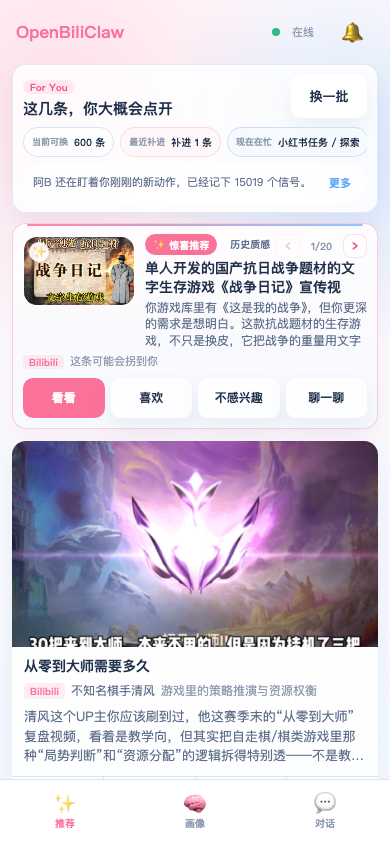
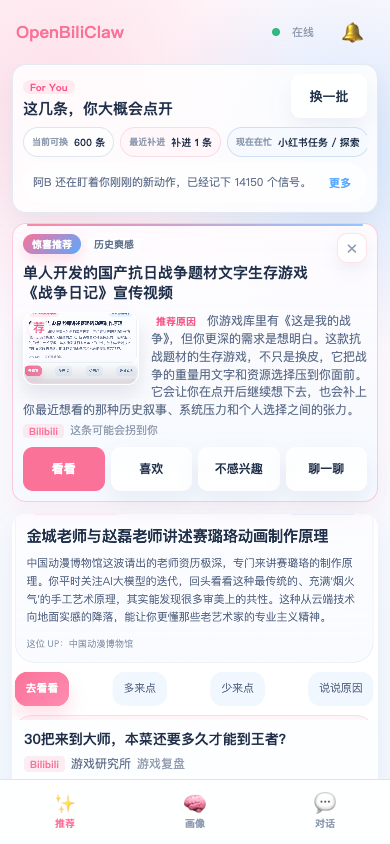
fix: refine mobile delight recommendation card

diff --git a/src/openbiliclaw/web/css/app.css b/src/openbiliclaw/web/css/app.css
@@ -417,18 +417,20 @@ body {
 }
 
 .delight-thumb {
-  width: 112px;
+  width: 116px;
   float: left;
-  margin: 2px 10px 6px 0;
+  margin: 2px 12px 7px 0;
   position: relative;
   overflow: hidden;
-  border-radius: 14px;
+  border-radius: 12px;
   aspect-ratio: 16 / 10;
   background:
     linear-gradient(180deg, rgba(255, 255, 255, 0.96), rgba(255, 248, 252, 0.94)),
     linear-gradient(145deg, rgba(251, 114, 153, 0.18), rgba(90, 169, 255, 0.14));
   border: 1px solid rgba(255, 255, 255, 0.92);
-  box-shadow: inset 0 1px 0 rgba(255, 255, 255, 0.74);
+  box-shadow:
+    inset 0 1px 0 rgba(255, 255, 255, 0.74),
+    0 10px 18px rgba(52, 72, 110, 0.12);
   display: flex;
   align-items: center;
   justify-content: center;
@@ -437,7 +439,7 @@ body {
 }
 
 .delight-thumb::before {
-  content: "✨";
+  content: "荐";
   position: absolute;
   top: 5px;
   left: 5px;
@@ -479,7 +481,7 @@ body {
   align-items: center;
   gap: 6px;
   min-width: 0;
-  padding-right: 78px;
+  padding-right: 118px;
   flex-wrap: wrap;
   margin-bottom: 4px;
 }
@@ -488,12 +490,13 @@ body {
   display: inline-flex;
   align-items: center;
   flex: 0 0 auto;
-  background: var(--brand);
+  background: linear-gradient(135deg, var(--brand), var(--sky));
   color: #fff;
   font-size: 10px;
-  font-weight: 700;
-  padding: 2px 8px;
+  font-weight: 800;
+  padding: 3px 9px;
   border-radius: 999px;
+  box-shadow: 0 6px 14px rgba(251, 114, 153, 0.22);
 }
 
 .delight-inline-counter {
@@ -509,11 +512,36 @@ body {
 .delight-corner-nav {
   position: absolute;
   top: 10px;
-  right: 10px;
+  right: 48px;
   display: inline-flex;
   align-items: center;
   gap: 5px;
   z-index: 2;
+}
+
+.delight-later-btn {
+  position: absolute;
+  top: 9px;
+  right: 10px;
+  z-index: 3;
+  width: 30px;
+  height: 30px;
+  border: 1px solid rgba(251, 114, 153, 0.2);
+  border-radius: 10px;
+  background: rgba(255, 255, 255, 0.82);
+  color: var(--text-muted);
+  font-size: 17px;
+  line-height: 1;
+  cursor: pointer;
+  display: inline-flex;
+  align-items: center;
+  justify-content: center;
+  box-shadow: 0 8px 16px rgba(73, 93, 130, 0.08);
+}
+
+.delight-later-btn:active {
+  background: var(--brand-soft);
+  color: var(--brand-strong);
 }
 
 .delight-inline-nav {
@@ -539,12 +567,19 @@ body {
 }
 
 .delight-title {
-  font-size: 14px;
+  font-size: 15px;
   font-weight: 800;
   line-height: 1.35;
   max-height: 2.7em;
   overflow: hidden;
   margin-bottom: 3px;
+  padding-right: 44px;
+  overflow-wrap: anywhere;
+}
+
+.delight-feature-copy {
+  min-width: 0;
+  padding-top: 5px;
 }
 
 .delight-hook-badge {
@@ -567,10 +602,32 @@ body {
 .delight-reason {
   font-size: 12px;
   color: var(--text-secondary);
-  line-height: 1.4;
-  max-height: 4.2em;
-  overflow: hidden;
+  line-height: 1.48;
   margin-top: 2px;
+  overflow-wrap: anywhere;
+}
+
+.delight-reason-wrap {
+  display: flow-root;
+  margin-top: 7px;
+}
+
+.delight-reason-label {
+  display: inline-flex;
+  align-items: center;
+  margin-right: 6px;
+  padding: 1px 5px;
+  border-radius: 999px;
+  background: rgba(255, 255, 255, 0.72);
+  color: var(--brand-strong);
+  font-size: 10px;
+  line-height: 1.4;
+  font-weight: 800;
+}
+
+.delight-media-only {
+  margin-top: 7px;
+  display: flow-root;
 }
 
 .delight-meta {
@@ -626,10 +683,11 @@ body {
     position: static;
     justify-content: flex-end;
     margin-bottom: 6px;
+    padding-right: 34px;
   }
 
   .delight-kicker-line {
-    padding-right: 0;
+    padding-right: 34px;
   }
 
   .delight-reason {
@@ -1250,7 +1308,7 @@ body {
 }
 
 .delight-actions .btn {
-  min-height: 40px;
+  min-height: 44px;
   padding: 8px 4px;
   font-size: 12px;
 }
@@ -1262,6 +1320,11 @@ body {
   border-radius: 8px;
   background: var(--lime-soft);
   color: var(--success);
+}
+
+.delight-result-state[data-tone="info"] {
+  background: var(--sky-soft);
+  color: var(--text-secondary);
 }
 
 /* ── Card Actions ─────────────────────────────────────────── */

diff --git a/src/openbiliclaw/web/js/views/recommend.js b/src/openbiliclaw/web/js/views/recommend.js
@@ -216,22 +216,35 @@ function renderDelightTray() {
         <button class="delight-inline-nav" id="delight-next" type="button" ${idx >= delights.length - 1 ? "disabled" : ""}>\u203A</button>
       </div>
     ` : ""}
+    ${!uiState.handled ? `<button class="delight-later-btn" id="delight-later" type="button" title="\u7A0D\u540E\u770B" aria-label="\u7A0D\u540E\u770B">\u00D7</button>` : ""}
     <div class="delight-compact">
-      ${coverHtml}
       <div class="delight-kicker-line">
-        <span class="delight-tag">\u2728 \u60CA\u559C\u63A8\u8350</span>
+        <span class="delight-tag">\u60CA\u559C\u63A8\u8350</span>
         ${d.delight_hook ? `<span class="delight-hook-badge">${esc(d.delight_hook)}</span>` : ""}
       </div>
-      <div class="delight-title">${esc(d.title)}</div>
-      ${reasonText ? `<div class="delight-reason">${esc(reasonText)}</div>` : ""}
-      <div class="delight-meta">
-        <span class="card-source" data-source="${d.source_platform}">${esc(getSourceLabel(d.source_platform))}</span>
-        ${uiState.score_label ? `<span>${esc(uiState.score_label)}</span>` : ""}
+      <div class="delight-feature-copy">
+        <div class="delight-title">${esc(d.title)}</div>
+        ${reasonText ? `
+          <div class="delight-reason-wrap">
+            ${coverHtml}
+            <div class="delight-reason"><span class="delight-reason-label">\u63A8\u8350\u539F\u56E0</span>${esc(reasonText)}</div>
+            <div class="delight-meta">
+              <span class="card-source" data-source="${d.source_platform}">${esc(getSourceLabel(d.source_platform))}</span>
+              ${uiState.score_label ? `<span>${esc(uiState.score_label)}</span>` : ""}
+            </div>
+          </div>
+        ` : `
+          <div class="delight-media-only">${coverHtml}</div>
+          <div class="delight-meta">
+            <span class="card-source" data-source="${d.source_platform}">${esc(getSourceLabel(d.source_platform))}</span>
+            ${uiState.score_label ? `<span>${esc(uiState.score_label)}</span>` : ""}
+          </div>
+        `}
       </div>
     </div>`;
 
   if (uiState.handled) {
-    tray.innerHTML += `<div style="margin-top:8px;font-size:12px;color:var(--${uiState.response_tone === "success" ? "success" : "text-muted"})">${esc(uiState.response_message)}</div>`;
+    tray.innerHTML += `<div class="delight-result-state" data-tone="${esc(uiState.response_tone)}">${esc(uiState.response_message)}</div>`;
   } else {
     // Action buttons
     const actions = document.createElement("div");
@@ -252,6 +265,10 @@ function renderDelightTray() {
     tray.appendChild(actions);
   }
 
+  tray.querySelector("#delight-later")?.addEventListener("click", () => {
+    skipDelightAt(idx);
+  });
+
   if (delights.length > 1) {
     tray.querySelector("#delight-prev")?.addEventListener("click", () => {
       if (idx > 0) { patchState({ delightCurrentIndex: idx - 1 }); render(); }
@@ -262,6 +279,13 @@ function renderDelightTray() {
   }
 
   $root.appendChild(tray);
+}
+
+function skipDelightAt(index) {
+  const filtered = state.activeDelights.filter((_, i) => i !== index);
+  const newIdx = Math.min(index, Math.max(0, filtered.length - 1));
+  patchState({ activeDelights: filtered, delightCurrentIndex: newIdx });
+  render();
 }
 
 async function handleDelightAction(d, action) {

diff --git a/tests/test_mobile_web_delight_layout.py b/tests/test_mobile_web_delight_layout.py
@@ -1,0 +1,43 @@
+"""Static regression tests for the mobile web delight tray layout."""
+
+from __future__ import annotations
+
+import re
+from pathlib import Path
+
+ROOT = Path(__file__).resolve().parents[1]
+RECOMMEND_JS = ROOT / "src/openbiliclaw/web/js/views/recommend.js"
+APP_CSS = ROOT / "src/openbiliclaw/web/css/app.css"
+
+
+def _css_block(css: str, selector: str) -> str:
+    match = re.search(rf"{re.escape(selector)}\s*\{{[\s\S]*?\}}", css)
+    return match.group(0) if match else ""
+
+
+def test_mobile_delight_tray_uses_featured_reason_wrap() -> None:
+    """The surprise recommendation tray should look distinct from normal cards."""
+
+    js = RECOMMEND_JS.read_text()
+    css = APP_CSS.read_text()
+
+    assert 'class="delight-feature-copy"' in js
+    assert 'class="delight-reason-label"' in js
+    assert 'id="delight-later"' in js
+    assert "\\u7A0D\\u540E\\u770B" in js or "稍后看" in js
+    assert 'class="delight-result-state"' in js
+
+    tray_block = _css_block(css, ".delight-tray")
+    tag_block = _css_block(css, ".delight-tag")
+    wrap_block = _css_block(css, ".delight-reason-wrap")
+    reason_block = _css_block(css, ".delight-reason")
+    thumb_block = _css_block(css, ".delight-thumb")
+    later_block = _css_block(css, ".delight-later-btn")
+
+    assert "linear-gradient" in tray_block
+    assert "linear-gradient" in tag_block
+    assert "flow-root" in wrap_block
+    assert "max-height" not in reason_block
+    assert "overflow: hidden" not in reason_block
+    assert "float: left" in thumb_block
+    assert "position: absolute" in later_block

diff --git a/README.md b/README.md
@@ -22,6 +22,7 @@
 ## 📌 v0.3.88 重要更新（2026-05-21）
 
 - **📱 移动端 Web 成为主入口之一** —— 同局域网手机访问 `/m/` 可看推荐、画像、聊一聊、消息和惊喜推荐；插件顶部手机图标可直接弹出扫码入口。
+- **✨ 手机惊喜推荐样式刷新** —— 移动端推荐页现在用真实 compact banner 展示惊喜推荐，推荐原因围绕左侧头图排版，动作与插件保持一致。
 - **🚫 LLM fallback 默认关闭** —— `[llm].fallback_enabled` 默认 `false`，请求失败直接暴露而非静默切 provider。
 - **🚫 Embedding fallback 默认关闭** —— `[llm.embedding].fallback_enabled` 默认 `false`，不再借用 chat-side 凭据或切换 embedding provider。
 - **🔌 Embedding 完全独立** —— embedding provider 留空即禁用，不再跟随 `[llm].default_provider`；两套配置彻底解耦。
@@ -97,8 +98,8 @@
     <td align="center" width="33%">
       <img src="docs/images/mobile-recommend.png" width="210" /><br/>
       <b>手机推荐页</b><br/>
-      <sub>换一批 · 加载更多</sub><br/>
-      <sub>喜欢 / 不感兴趣 / 聊一聊</sub>
+      <sub>惊喜推荐 · 推荐原因环绕头图</sub><br/>
+      <sub>看看 / 喜欢 / 不感兴趣 / 聊一聊</sub>
     </td>
     <td align="center" width="33%">
       <img src="docs/images/mobile-profile.png" width="210" /><br/>

diff --git a/README_EN.md b/README_EN.md
@@ -20,6 +20,7 @@
 ## 📌 v0.3.88 Highlights (2026-05-21)
 
 - **📱 Mobile Web is now a primary surface** — open `/m/` from a phone on the same LAN to view recommendations, profile, chat, messages, and delight candidates; the phone icon in the extension header now opens a scan-ready QR code.
+- **✨ Mobile delight card refreshed** — the recommendation tab now shows delight candidates as a compact banner, with the reason wrapping around the left cover and actions aligned with the extension.
 - **🚫 LLM fallback off by default** — `[llm].fallback_enabled` defaults to `false`; failures surface immediately instead of silently switching providers.
 - **🚫 Embedding fallback off by default** — `[llm.embedding].fallback_enabled` defaults to `false`; no more borrowing chat-side credentials or falling through to other embedding providers.
 - **🔌 Embedding fully independent** — empty embedding provider means disabled, no longer follows `[llm].default_provider`; the two config surfaces are fully decoupled.
@@ -64,8 +65,8 @@ All data lives in a single SQLite file on your disk. LLM calls use your own API 
     <td align="center" width="33%">
       <img src="docs/images/mobile-recommend.png" width="210" /><br/>
       <b>Recommendations</b><br/>
-      <sub>Reshuffle · load more</sub><br/>
-      <sub>Like / not interested / chat</sub>
+      <sub>Delight candidate · reason around cover</sub><br/>
+      <sub>View / like / not interested / chat</sub>
     </td>
     <td align="center" width="33%">
       <img src="docs/images/mobile-profile.png" width="210" /><br/>

diff --git a/docs/changelog.md b/docs/changelog.md
@@ -11,11 +11,12 @@
 - 浏览器插件设置页「模型」tab 增加 LLM fallback 与 embedding fallback 两个开关，并更新文案说明 embedding 与 LLM 独立配置。
 - 移动 Web 新增轻量 view-model 适配层，推荐页池状态会读取 `/api/runtime-status` 的 `pool_available_count` / `last_replenished_count` / `recent_pool_topics`，画像页 MBTI 可渲染后端返回的 `{EI: {pole, strength}}` 对象形态；对话页兼容 `/api/chat/turns` 返回的 `reply` 字段，不再因字段形态不一致空白或漏显回复。
 - 移动 Web 资源噪声收敛：根路径 `/favicon.ico` 现在复用 PWA 图标返回 PNG；推荐页封面会过滤直接 403 的小红书 CDN URL、把 B 站 `http` / protocol-relative 封面升到 HTTPS，并用 `no-referrer` 加载外链图片，避免浏览器控制台残留 favicon / hotlink 错误。
-- 移动 Web 推荐页的惊喜推荐动作对齐浏览器插件：按钮改为「看看 / 喜欢 / 不感兴趣 / 聊一聊」，移除仅移动端存在的「稍后」，并把「喜欢」写入 `/api/delight/respond` 的 `like` 反馈。
+- 移动 Web 推荐页的惊喜推荐动作对齐浏览器插件：底部按钮改为「看看 / 喜欢 / 不感兴趣 / 聊一聊」，「稍后看」收进右上角关闭控件，并把「喜欢」写入 `/api/delight/respond` 的 `like` 反馈。
 - 移动 Web 推荐页头部对齐插件：新增 `For You / 这几条，你大概会点开` 紧凑 header，把「换一批」放回首屏主操作位，池状态三枚 chip 改为「当前可换 / 最近补进 / 现在在忙」，活动状态降级为 header 内辅助行，「加载更多」移动到推荐列表底部。
 - 移动 Web 推荐页头部再次压缩移动端状态区：三枚池状态从大卡片改成横向轻量 pill，活动摘要改成单行；`xhs-extension-*`、`dy-plugin-*`、`yt-*` 等内部来源名会在移动端显示为用户可读的中文短标签。README 移动端预览说明同步使用「不感兴趣」文案。
 - 移动 Web 惊喜推荐改为接近插件的 compact banner：封面从全宽大图收敛为左侧小缩略图，右侧展示标签、标题、理由和来源，翻页控件并入标签行，减少首屏占用并保留「看看 / 喜欢 / 不感兴趣 / 聊一聊」动作。
-- 移动 Web 惊喜推荐 compact banner 恢复独立推荐原因描述：`delight_hook` 作为短标签展示，`delight_reason` 围绕左侧头图排版，避免只剩标题和 hook 看不到推荐理由，同时让这张卡明显区别于普通推荐卡。
+- 移动 Web 惊喜推荐 compact banner 恢复独立推荐原因描述：`delight_hook` 作为短标签展示，`delight_reason` 带「推荐原因」标记并围绕左侧头图排版，右上角保留「稍后看」关闭入口，避免只剩标题和 hook 看不到推荐理由，同时让这张卡明显区别于普通推荐卡。
+- README / README_EN 的移动端预览截图已刷新为当前 `/m/` 推荐页实际渲染图，展示惊喜推荐 compact banner、推荐原因环绕头图和插件一致的动作区。
 - 移动 Web 画像页补齐与插件一致的画像细节：MBTI 显示可信度，使用场景显示“模式”，内容口味把 `long/slow` 等 raw 值本地化为中文标签，认知更新卡片保留后端 `context_line` 与 `source_label`。
 - 移动 Web 对话页对齐插件主聊天会话：读取和提交都使用 `session=popup&scope=chat`，聊天回复完成后会刷新画像和活动流；消息 overlay 内的兴趣探测动作改为「喜欢 / 不喜欢 / 多聊聊」，惊喜推荐动作补齐「喜欢」，聊天输入框固定在底部并以两行高度起步，保留更多历史上下文可视空间。
 - 新增移动 Web 原生重设计 spec，明确 `/m/` 与浏览器插件在推荐、画像、对话、消息和 delight 工作流上的功能对齐范围，以及手机端独立信息架构。

diff --git a/docs/mobile-web-spec.md b/docs/mobile-web-spec.md
@@ -171,7 +171,7 @@ if web_dir.is_dir():
 移动端会在 `view-models.js` 中做最小字段适配：
 - 推荐池状态读取 `/api/runtime-status` 的 `pool_available_count`、`last_replenished_count`、`recent_pool_topics`，再映射成推荐页三枚 chip 使用的 `pool_size`、`recent_replenish`、`current_topic`。
 - 推荐页头部用 `getMobileRecommendationHeaderState()` 生成插件语义一致的标题、首屏「换一批」、三枚池状态 chip 和活动辅助行；移动端把池状态压成横向轻量 pill，并把 `xhs-extension-*` / `dy-plugin-*` / `yt-*` 等内部来源名显示为用户可读短标签；「加载更多」保留为列表底部显式续页入口。
-- 惊喜推荐沿用插件 compact banner 思路：左侧小缩略图、标签 / 标题 / 理由 / 来源围绕头图形成 featured card，翻页控件放在右上角，动作区仍保持「看看 / 喜欢 / 不感兴趣 / 聊一聊」。
+- 惊喜推荐沿用插件 compact banner 思路：左侧小缩略图、标签 / 标题 / 理由 / 来源围绕头图形成 featured card，推荐原因带轻量标记，翻页控件与「稍后看」关闭入口放在右上角，动作区仍保持「看看 / 喜欢 / 不感兴趣 / 聊一聊」。
 - MBTI 维度兼容后端对象形态（如 `EI: { pole: "I", strength: 0.8 }`）和旧数组形态，统一映射为 `{ left, right, score }` 后再渲染。
 - MBTI 会保留后端 `confidence` 显示为“可信度”；内容口味将 `long/slow` 等 raw 枚举映射为“长视频 / 慢节奏”等中文标签；使用场景会显示 `session_type` 为“模式”。
 - 认知更新卡片会保留后端 `context_line` 与 `source_label`，即使前端已做过一次 normalize 后再次渲染，也不回退成泛化上下文。